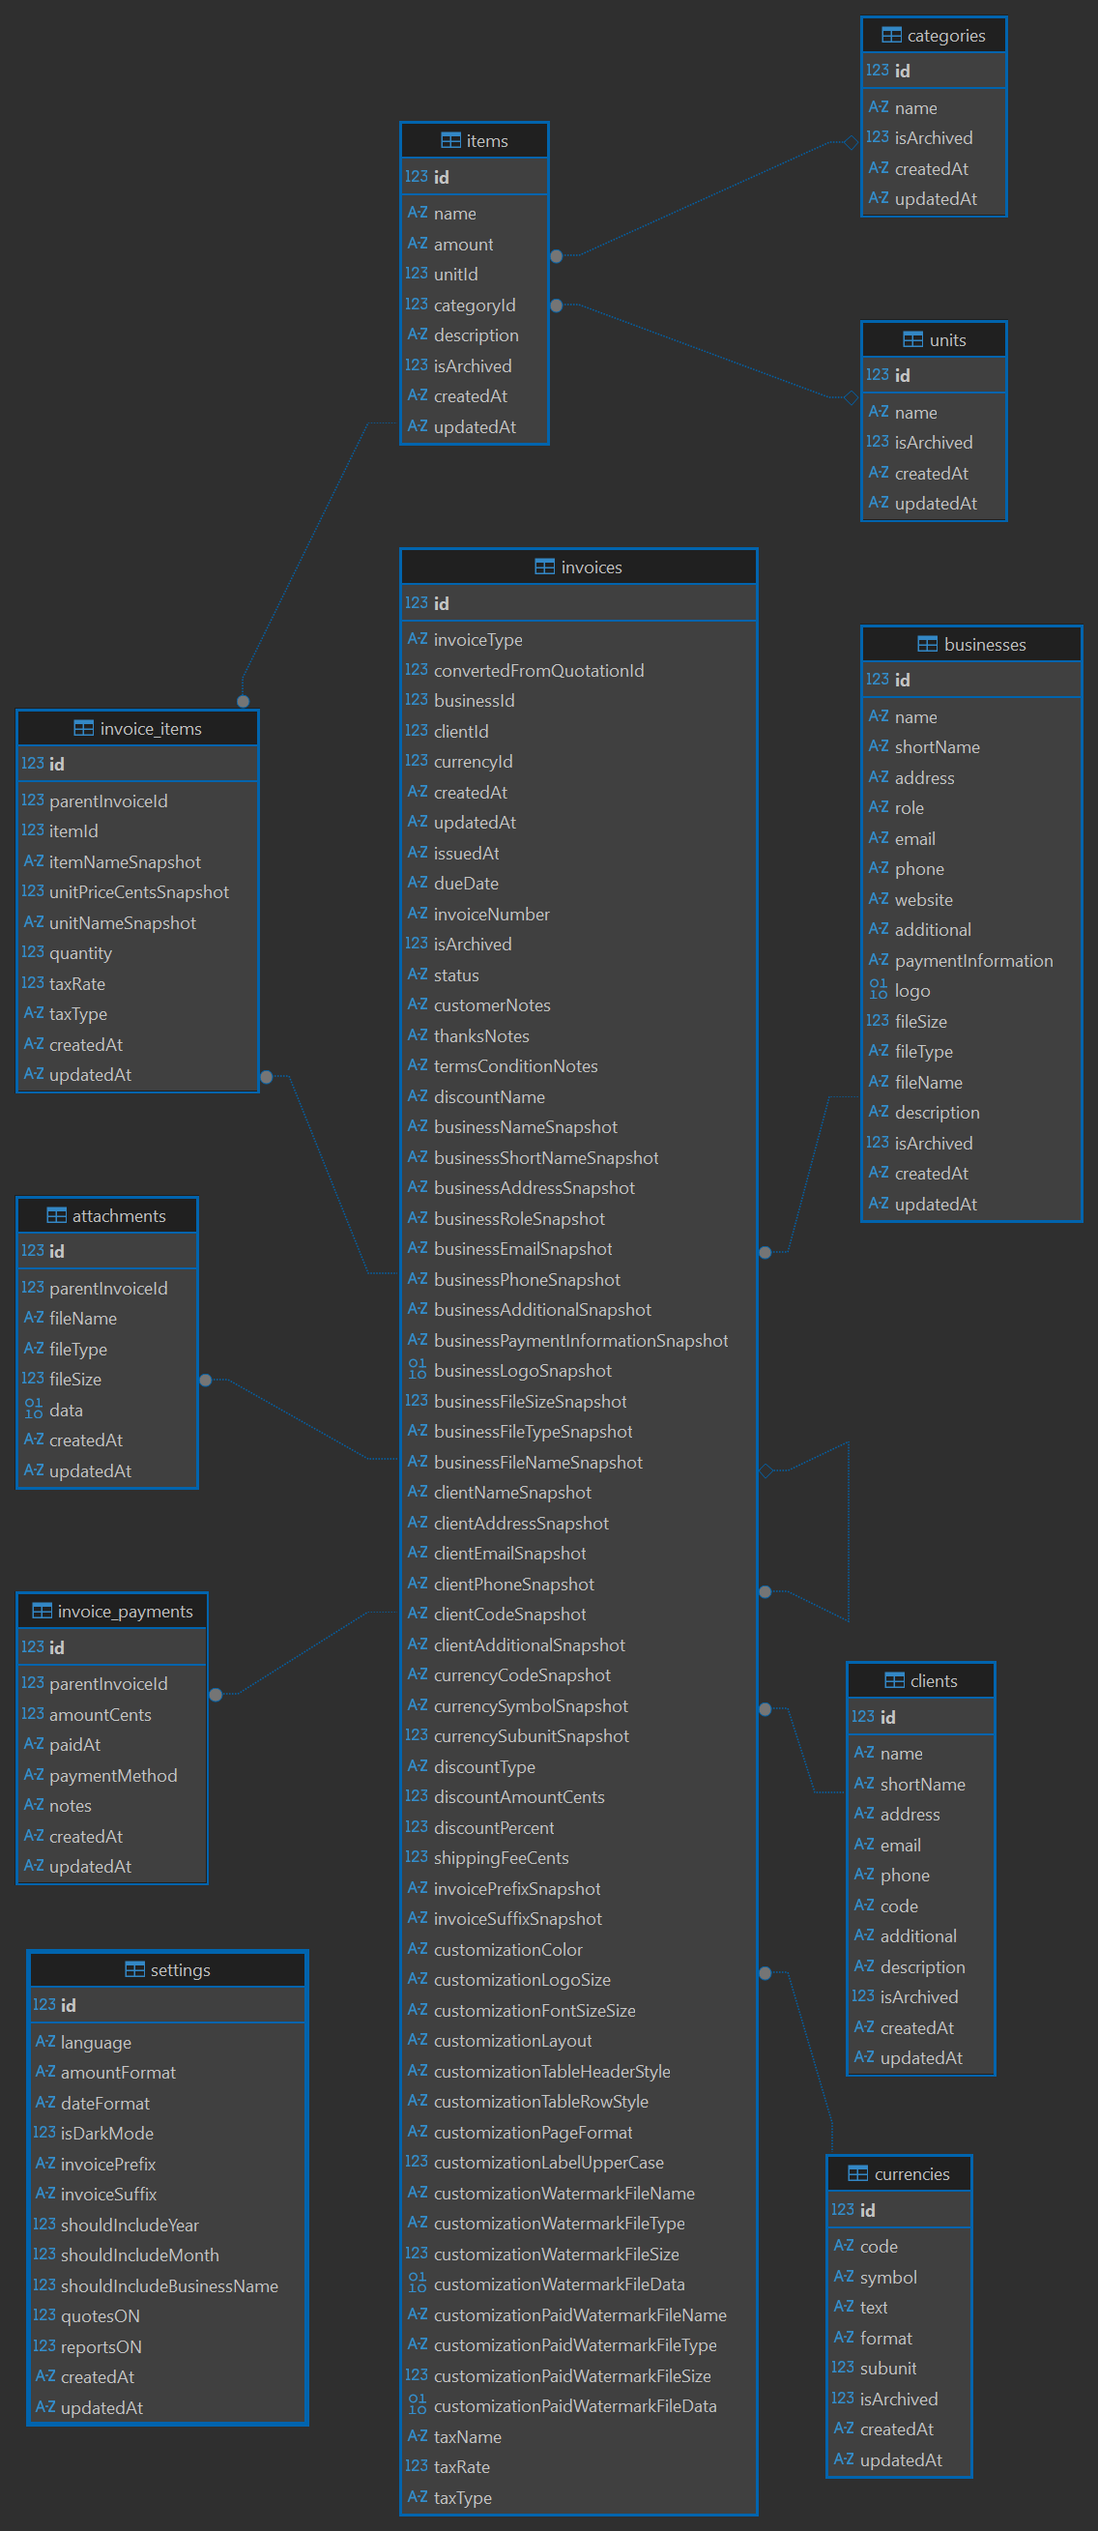
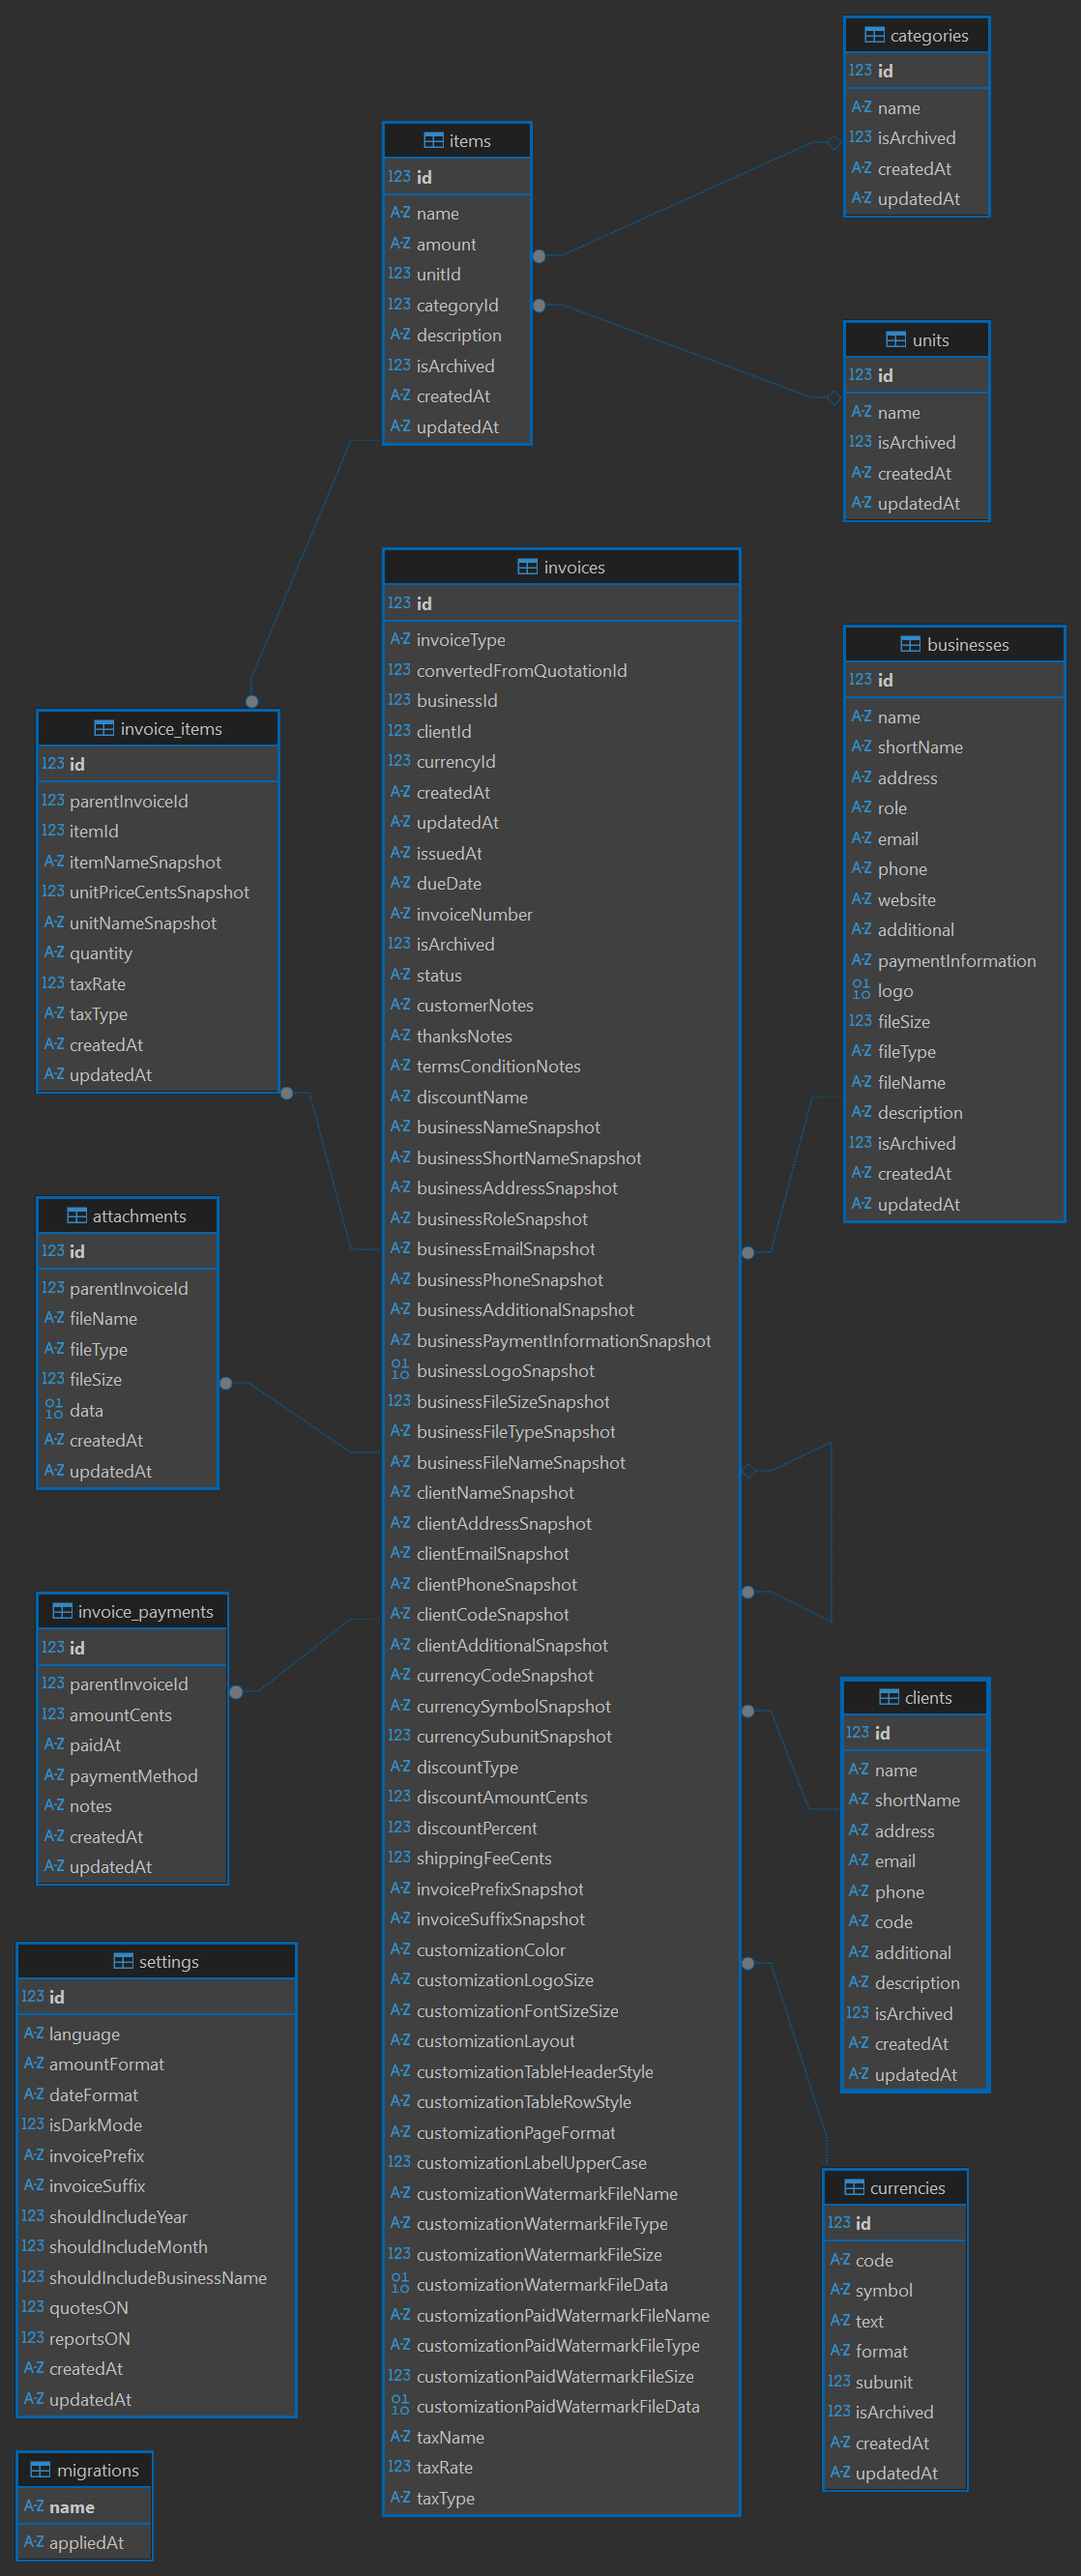
introducing migration logi and allowing to enter quantity with decimals

diff --git a/src/main/migrations/20260105-01-invoice_items-quantity-to-text.ts b/src/main/migrations/20260105-01-invoice_items-quantity-to-text.ts
@@ -1,0 +1,64 @@
+import sqlite3 from 'sqlite3';
+import { getFirstRow, runAsync } from '../utils/dbFuntions';
+import { mapSqliteError } from '../utils/errorFunctions';
+
+export const up = async (db: sqlite3.Database) => {
+  try {
+    const colInfo = await getFirstRow(
+      db,
+      `
+        SELECT *
+        FROM pragma_table_info('invoice_items')
+        WHERE name = 'quantity'
+      `
+    );
+
+    if (!colInfo) return;
+
+    await runAsync(db, 'PRAGMA foreign_keys = OFF;');
+    await runAsync(db, 'BEGIN TRANSACTION;');
+    await runAsync(db, 'DROP TABLE IF EXISTS invoice_items_new;');
+
+    await runAsync(
+      db,
+      `
+      CREATE TABLE invoice_items_new (
+        id INTEGER PRIMARY KEY AUTOINCREMENT,
+        parentInvoiceId INTEGER NOT NULL,
+        itemId INTEGER NOT NULL,
+        itemNameSnapshot TEXT NOT NULL,
+        unitPriceCentsSnapshot INTEGER NOT NULL DEFAULT (0),
+        unitNameSnapshot TEXT,
+        quantity TEXT NOT NULL DEFAULT '0',
+        taxRate REAL NOT NULL DEFAULT 0,
+        taxType TEXT CHECK(taxType IN ('exclusive','inclusive') OR taxType IS NULL),
+        createdAt DATETIME NOT NULL DEFAULT (datetime('now')),
+        updatedAt DATETIME NOT NULL DEFAULT (datetime('now')),
+        FOREIGN KEY (parentInvoiceId) REFERENCES invoices(id) ON DELETE CASCADE,
+        FOREIGN KEY (itemId) REFERENCES items(id)
+      );
+    `
+    );
+
+    await runAsync(
+      db,
+      `
+      INSERT INTO invoice_items_new (id, parentInvoiceId, itemId, itemNameSnapshot, unitPriceCentsSnapshot, unitNameSnapshot, quantity, taxRate, taxType, createdAt, updatedAt)
+      SELECT id, parentInvoiceId, itemId, itemNameSnapshot, unitPriceCentsSnapshot, unitNameSnapshot, CAST(quantity AS TEXT), taxRate, taxType, createdAt, updatedAt
+      FROM invoice_items;
+    `
+    );
+
+    await runAsync(db, 'DROP TABLE invoice_items;');
+    await runAsync(db, 'ALTER TABLE invoice_items_new RENAME TO invoice_items;');
+
+    await runAsync(db, `CREATE INDEX IF NOT EXISTS idx_invoice_items_invoiceId ON invoice_items(parentInvoiceId)`);
+    await runAsync(db, `CREATE INDEX IF NOT EXISTS idx_invoice_items_itemId ON invoice_items(itemId)`);
+
+    await runAsync(db, 'COMMIT;');
+    await runAsync(db, 'PRAGMA foreign_keys = ON;');
+  } catch (error) {
+    await runAsync(db, 'ROLLBACK;');
+    return { success: false, ...mapSqliteError(error) };
+  }
+};

diff --git a/src/renderer/pages/invoices/Form/Modals/ItemQuantitySetter.tsx b/src/renderer/pages/invoices/Form/Modals/ItemQuantitySetter.tsx
@@ -7,14 +7,14 @@ import { validators } from '../../../../shared/utils/validatorFunctions';
 
 interface Props {
   isOpen: boolean;
-  currQuantity?: number;
+  currQuantity?: string;
   onCancel?: () => void;
-  onSave?: (quantity: number) => void;
+  onSave?: (quantity: string) => void;
 }
 const ItemQuantitySetterComponent: FC<Props> = ({ isOpen, currQuantity, onCancel = () => {}, onSave = () => {} }) => {
   const { t } = useTranslation();
   const [isFormValid, setIsFormValid] = useState(true);
-  const [quantity, setQuantity] = useState<number | undefined>(currQuantity ?? 0);
+  const [quantity, setQuantity] = useState<number | undefined>(Number(currQuantity ?? 0));
   const [quantityError, setQuantityErrors] = useState(false);
 
   useEffect(() => {
@@ -24,7 +24,7 @@ const ItemQuantitySetterComponent: FC<Props> = ({ isOpen, currQuantity, onCancel
   }, [quantity]);
 
   useEffect(() => {
-    setQuantity(currQuantity ?? 0);
+    setQuantity(Number(currQuantity ?? 0));
   }, [currQuantity]);
 
   return (
@@ -36,7 +36,7 @@ const ItemQuantitySetterComponent: FC<Props> = ({ isOpen, currQuantity, onCancel
         formData={quantity}
         onClose={onCancel}
         onSave={data => {
-          onSave(data as number);
+          onSave(data as string);
         }}
       />
       <DialogContent sx={{ minWidth: '300px' }}>
@@ -46,6 +46,7 @@ const ItemQuantitySetterComponent: FC<Props> = ({ isOpen, currQuantity, onCancel
           value={quantity}
           error={quantityError}
           helperText={quantityError ? t('common.fieldRequired') : ''}
+          decimalScale={3}
           onChange={e => {
             setQuantity(e);
             if (!validators.required((e ?? '').toString())) {

diff --git a/src/main/migration.ts b/src/main/migration.ts
@@ -1,0 +1,48 @@
+import { app } from 'electron';
+import fs from 'fs';
+import path, { join, resolve } from 'path';
+import sqlite3 from 'sqlite3';
+import { pathToFileURL } from 'url';
+import { getFirstRow, runAsync } from './utils/dbFuntions';
+import { mapSqliteError } from './utils/errorFunctions';
+
+const isDev = !app.isPackaged;
+const migrationsPath = isDev
+  ? join(resolve(), 'dist-electron/migrations')
+  : join(app.getAppPath(), 'dist-electron/migrations');
+
+export const runMigrations = async (db: sqlite3.Database) => {
+  try {
+    const files = fs
+      .readdirSync(migrationsPath)
+      .filter(f => f.endsWith('.cjs'))
+      .sort();
+
+    await runAsync(
+      db,
+      `
+    CREATE TABLE IF NOT EXISTS migrations (
+      name TEXT PRIMARY KEY,
+      appliedAt DATETIME NOT NULL DEFAULT (datetime('now'))
+    );
+  `
+    );
+
+    for (const file of files) {
+      const name = path.basename(file);
+
+      const row = await getFirstRow(db, `SELECT 1 FROM migrations WHERE name = ?`, [name]);
+
+      if (!row) {
+        const migrationFilePath = join(migrationsPath, file);
+        const migrationUrl = pathToFileURL(migrationFilePath).href;
+        const migration = await import(migrationUrl);
+        await migration.up(db);
+        await runAsync(db, `INSERT INTO migrations(name) VALUES('${name}')`);
+      }
+    }
+  } catch (error) {
+    await runAsync(db, 'ROLLBACK;');
+    return { success: false, ...mapSqliteError(error) };
+  }
+};

diff --git a/vite.migrations.config.ts b/vite.migrations.config.ts
@@ -1,0 +1,54 @@
+import fs from 'fs';
+import { builtinModules } from 'module';
+import path from 'path';
+import { defineConfig } from 'vite';
+import tsconfigPaths from 'vite-tsconfig-paths';
+
+const MIGRATIONS_SRC = path.resolve(__dirname, 'src', 'main', 'migrations');
+
+export default defineConfig(() => {
+  const files = fs.readdirSync(MIGRATIONS_SRC).filter(f => f.endsWith('.ts'));
+  const input: Record<string, string> = {};
+  for (const file of files) {
+    const name = file.replace(/\.ts$/i, '');
+    input[name] = path.join(MIGRATIONS_SRC, file);
+  }
+
+  return {
+    build: {
+      outDir: path.resolve(__dirname, 'dist-electron', 'migrations'),
+      target: 'node20',
+      lib: {
+        entry: input,
+        formats: ['cjs'],
+        fileName: name => `${name}.cjs`
+      },
+      rollupOptions: {
+        external: [
+          '@electron-webauthn/native',
+          'electron-webauthn',
+          'electron',
+          'sqlite3',
+          'fs',
+          'path',
+          'url',
+          'os',
+          'crypto',
+          ...builtinModules,
+          ...builtinModules.map(m => `node:${m}`)
+        ],
+        output: {
+          entryFileNames: '[name].cjs',
+          format: 'cjs'
+        }
+      }
+    },
+    resolve: {
+      alias: {
+        '@main': path.resolve(__dirname, 'src/main')
+      }
+    },
+    publicDir: false,
+    plugins: [tsconfigPaths({ projects: ['tsconfig.node.json'] })]
+  };
+});

diff --git a/src/renderer/shared/components/inputs/amountInput/AmountInput.tsx b/src/renderer/shared/components/inputs/amountInput/AmountInput.tsx
@@ -14,6 +14,7 @@ interface Props {
   helperText?: ReactNode;
   min?: number;
   max?: number;
+  decimalScale?: number;
 }
 export const AmountInput: FC<Props> = ({
   value,
@@ -24,7 +25,8 @@ export const AmountInput: FC<Props> = ({
   error,
   min = 0,
   max,
-  helperText
+  helperText,
+  decimalScale
 }) => {
   const { hasDecimal, thousand, decimal } = amountFormat ? getFormattingMeta(amountFormat) : {};
 
@@ -40,9 +42,9 @@ export const AmountInput: FC<Props> = ({
       required={required}
       value={value}
       thousandSeparator={thousand}
-      decimalSeparator={hasDecimal ? decimal : undefined}
-      decimalScale={hasDecimal ? 2 : 0}
-      fixedDecimalScale={hasDecimal}
+      decimalSeparator={decimalScale !== undefined ? '.' : hasDecimal ? decimal : undefined}
+      decimalScale={decimalScale !== undefined ? decimalScale : hasDecimal ? 2 : 0}
+      fixedDecimalScale={decimalScale !== undefined ? false : hasDecimal}
       allowNegative={false}
       isAllowed={({ floatValue }) => {
         if (typeof floatValue !== 'number') return true;

diff --git a/src/renderer/shared/utils/invoiceFunctions.ts b/src/renderer/shared/utils/invoiceFunctions.ts
@@ -103,10 +103,10 @@ export const getInvoiceItemAmountCents = (invoiceItem: InvoiceItem): number => {
   return getTotalUnitPrice({ unitPrice: invoiceItem.unitPriceCentsSnapshot, quantity: invoiceItem.quantity });
 };
 
-export const getTotalUnitPrice = (data: { unitPrice: number; quantity: number }): number => {
+export const getTotalUnitPrice = (data: { unitPrice: number; quantity: string }): number => {
   const { unitPrice, quantity } = data;
 
-  return unitPrice * quantity;
+  return unitPrice * Number(quantity);
 };
 
 export const getDiscountAmountCents = (invoice: Invoice): number => {
@@ -196,7 +196,7 @@ export const getItemFinancialData = (data: {
   storeSettings?: Settings;
   invoiceForm: InvoiceFromData;
   unitPriceCents: number;
-  quantity: number;
+  quantity: string;
   taxType?: InvoiceItemTaxType;
   taxRate: number;
   format?: (amount: number) => string;

diff --git a/src/renderer/pages/invoices/Form/index.tsx b/src/renderer/pages/invoices/Form/index.tsx
@@ -211,7 +211,7 @@ const InvoiceFormComponent: FC<Props> = ({
   );
 
   const handleClickItems = useCallback(
-    (data: Item, quantity: number) => {
+    (data: Item, quantity: string) => {
       handleOnClose(setIsDropdownOpenItems);
 
       if (!invoiceForm) return;
@@ -272,7 +272,7 @@ const InvoiceFormComponent: FC<Props> = ({
   );
 
   const handleEditQuantity = useCallback(
-    (quantity: number) => {
+    (quantity: string) => {
       if (!selectedInvoiceItem || !invoiceForm) return;
       startTransition(() => {
         setInvoiceForm(prev => {

diff --git a/src/main/database.ts b/src/main/database.ts
@@ -3,6 +3,7 @@ import fs from 'fs';
 import path from 'path';
 import sqlite3 from 'sqlite3';
 import { initIpcHandler } from './ipc';
+import { runMigrations } from './migration';
 import { getFirstRow, runAsync } from './utils/dbFuntions';
 
 let db: sqlite3.Database;
@@ -394,6 +395,8 @@ const setupDB = async (opts: { fullPath: string; createIfMissing?: boolean; main
     await init();
     await initInitialData();
   }
+
+  await runMigrations(db);
 
   initIpcHandler(db, dbPath, mainWindow);
 };

diff --git a/src/renderer/pages/reports/Overview.tsx b/src/renderer/pages/reports/Overview.tsx
@@ -86,7 +86,7 @@ export const Overview: FC<Props> = ({ grouped, invoices }) => {
                     };
                   }
 
-                  acc[name].quantity += quantity;
+                  acc[name].quantity += Number(quantity);
                   acc[name].amount += itemTotalAmount;
                 });
 

diff --git a/src/renderer/pages/invoices/Form/Dropdowns/ItemsDropdown.tsx b/src/renderer/pages/invoices/Form/Dropdowns/ItemsDropdown.tsx
@@ -15,7 +15,7 @@ interface Props {
   isOpen: boolean;
   onClose?: () => void;
   onOpen?: () => void;
-  onClick?: (data: Item, quantity: number) => void;
+  onClick?: (data: Item, quantity: string) => void;
 }
 
 const ItemsDropdownComponent: FC<Props> = ({ isOpen, onClose, onOpen, onClick }) => {

diff --git a/src/renderer/shared/types/invoice.ts b/src/renderer/shared/types/invoice.ts
@@ -139,7 +139,7 @@ export interface InvoiceItem {
   itemNameSnapshot: string;
   unitPriceCentsSnapshot: number;
   unitNameSnapshot?: string;
-  quantity: number;
+  quantity: string;
   createdAt?: string;
   updatedAt?: string;
   taxRate: number;

diff --git a/src/main/types/invoice.ts b/src/main/types/invoice.ts
@@ -106,7 +106,7 @@ export interface InvoiceItem {
   itemNameSnapshot: string;
   unitPriceCentsSnapshot: number;
   unitNameSnapshot?: string;
-  quantity: number;
+  quantity: string;
   createdAt: string;
   updatedAt: string;
   taxRate: number;
